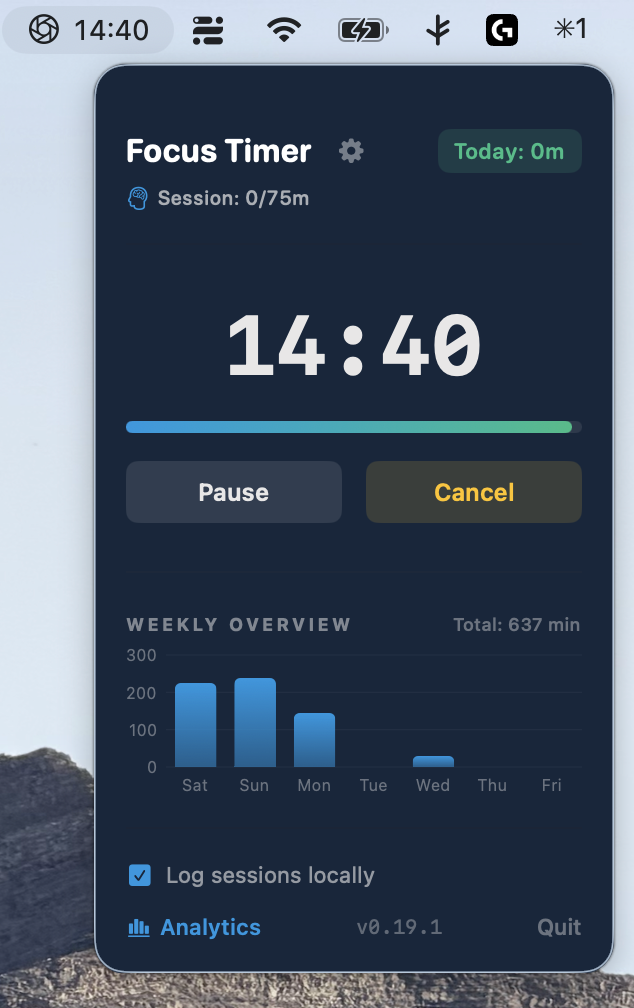
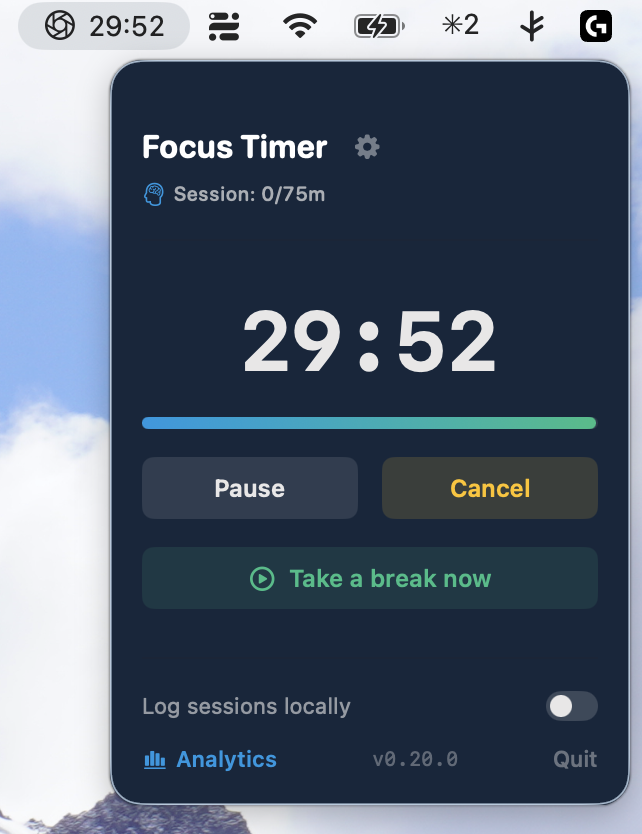
docs(readme): update from source fda7cf6

diff --git a/README.md b/README.md
@@ -15,17 +15,18 @@
 **FocusTimer** is a lightweight, native macOS menu bar application engineered to integrate evidence-based cognitive neuroscience into your daily workflow. It prevents mental fatigue by aligning deep work intervals with autonomic nervous system recovery.
 
 <p align="center">
-  <img src="docs/screenshots/menu-start.png" height="400" alt="FocusTimer menu: choose 15, 25 or 45 minutes or a custom duration, then Start Timer">
+  <img src="docs/screenshots/menu-start.png" height="400" alt="FocusTimer menu: choose 15, 25 or 45 minutes or a custom duration, then Start Timer or Take a break now">
   &nbsp;&nbsp;
-  <img src="docs/screenshots/menu-running.png" height="400" alt="FocusTimer menu during a focus block: countdown, progress bar, Pause and Cancel, weekly overview of focus minutes">
+  <img src="docs/screenshots/menu-running.png" height="400" alt="FocusTimer menu during a focus block: countdown, progress bar, Pause and Cancel, Take a break now">
 </p>
 <p align="center">
-  <img src="docs/screenshots/menubar-countdown.png" width="324" alt="The remaining time shown next to the FocusTimer icon in the macOS menu bar">
+  <img src="docs/screenshots/menubar-countdown.png" width="201" alt="The remaining time shown next to the FocusTimer icon in the macOS menu bar">
 </p>
-<p align="center"><sub>Choose a duration · a running focus block with your weekly overview · the countdown in the menu bar</sub></p>
+<p align="center"><sub>Choose a duration · a running focus block · the countdown in the menu bar</sub></p>
 
 ### Key Capabilities:
 * ⏱ **Distraction-Free Focus Blocks:** Customizable timer durations (25 minutes by default) with a subtle menu bar readout and a floating countdown in the final minute — in a colour of your choosing.
+* ▶ **Take a Break Now:** One click in the menu starts a break straight away — for instance while an AI tool is working. A running block counts with the time you actually worked.
 * 🧠 **Science-Backed Microbreaks:** Recovery is offered automatically once continuous focus passes a threshold you set, 75 minutes by default.
 * 🌬 **Guided Breathing Protocols:** Parasympathetic activation through **Balance (Coherence)**, **Focus (Box Breathing)**, and **Slow Down (Focus Pause)**. The circle fills the screen and shifts colour with your breath, and every phase — including the holds — has its own tone, so an exercise can be followed with the eyes closed.
 * 🫶 **Bilateral Stimulation:** Cross your arms and tap left and right in turn, in time with alternating tones at 60 BPM.
